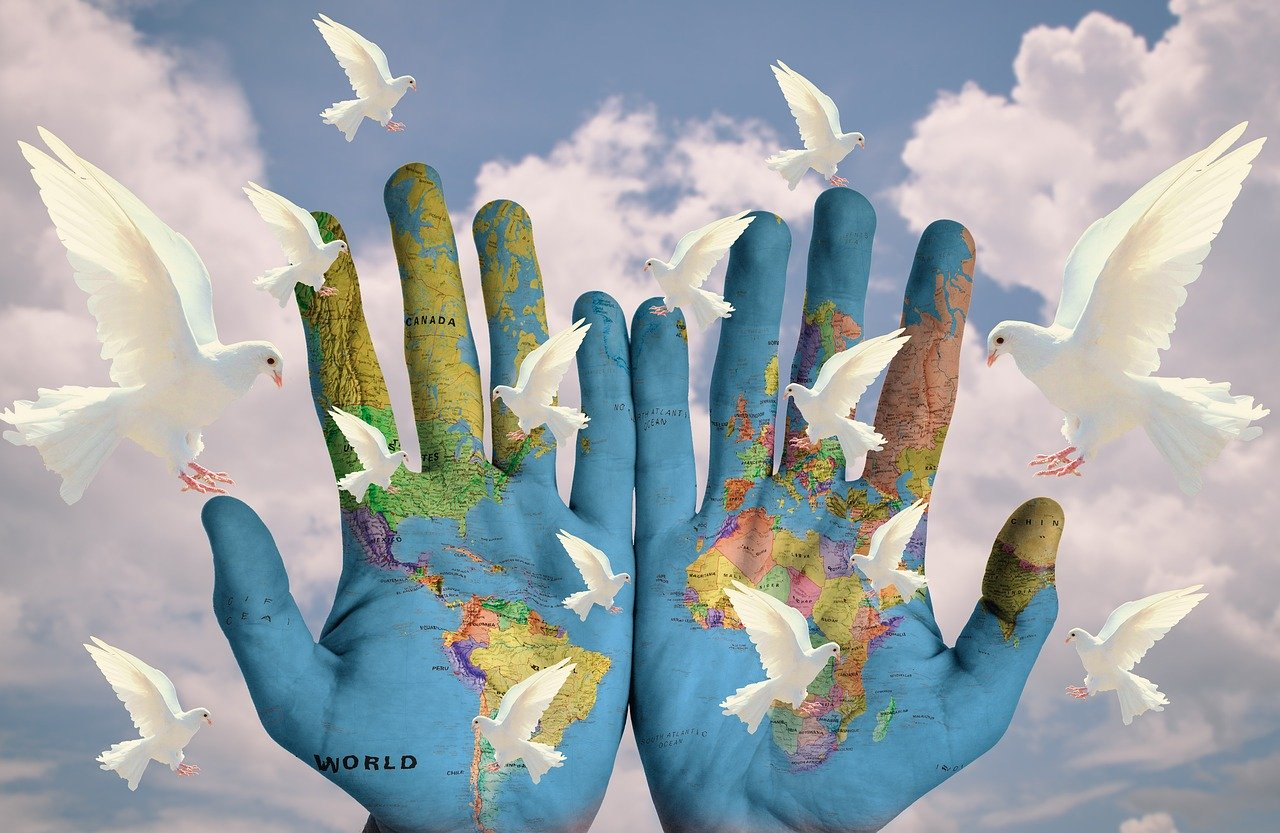
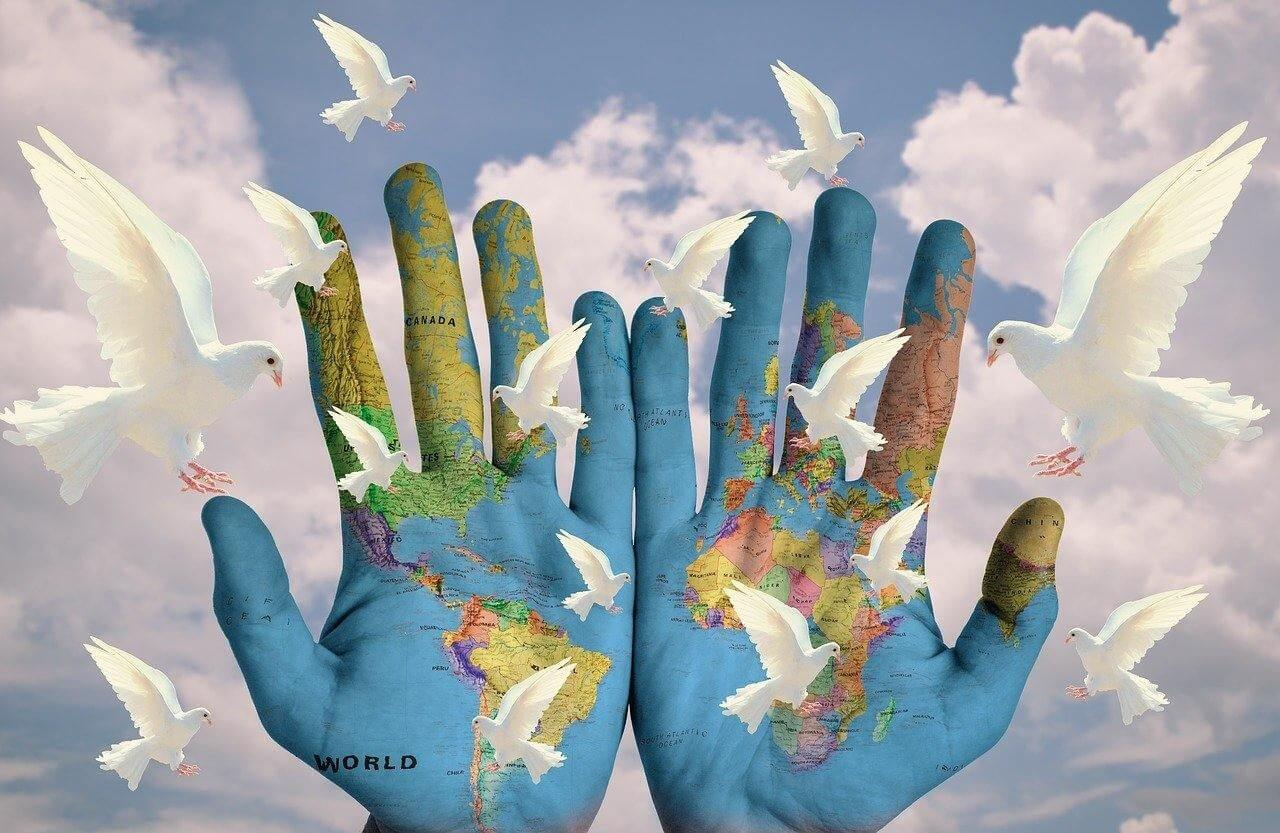
perf: optimize asset image to reduce page load time

diff --git a/src/app/components/login/login.component.html b/src/app/components/login/login.component.html
@@ -2,7 +2,7 @@
   <div class="login-main-1">
     <picture>
       <source media="(max-width: 1600px)" srcset="./assets/images/peace-1280w.jpg" />
-      <source media="(min-width: 1700px)" srcset="./assets/images/peace-1660w.png" />
+      <source media="(min-width: 1700px)" srcset="./assets/images/peace-1660w.jpg" />
       <img src="./assets/images/peace.jpg" alt="A picture of world peace" class="login-main-1-image" />
     </picture>
   </div>
@@ -10,7 +10,7 @@
   <div class="login-main-2">
     <div class="login-main-2-heading">
       <img class="icon" src="./assets/icons/quarantine3.png" alt="" />
-      <div class="mat-title">Quarantine<br />Help</div>
+      <div class="mat-title">Quarantine<br/>Help</div>
     </div>
 
     <div class="login-main-2-card">
